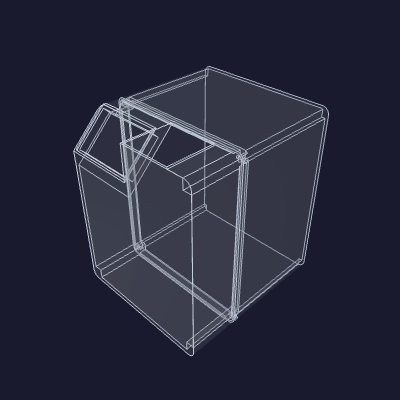
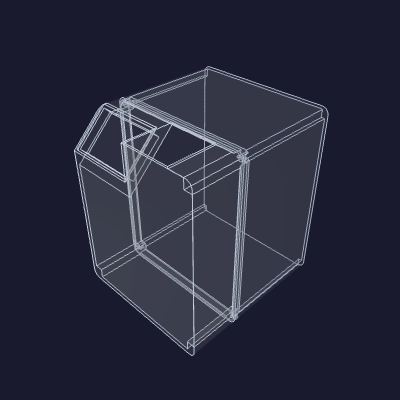
lite: tuck pump stack within the reservoir depth — box 246x270x305
Nudge source-select 3 mm forward so the pump stack behind it ends at the
reservoir back face, removing the small Y regression. Net vs the pre-densify
277x270x305: 31 mm narrower in X, no change in Y or Z. All real-solid checks
clean.

diff --git a/pie-in-the-sky/lite/enclosure-assembly/_contents.py b/pie-in-the-sky/lite/enclosure-assembly/_contents.py
@@ -144,8 +144,10 @@ def build():
     # long axis runs up Z; footprint 63 x 93), butted to the reservoir's +X wall,
     # at the front of the column so its V-B port sits under the hopper toward the
     # front (the funnel necks above the front trays, not onto V-B — Kitchen idiom).
+    # A hair forward of the reservoir front so the pump stack behind it tucks
+    # within the reservoir's back face (keeps the box from growing in Y).
     src = _place(_rot(_load(TRAY_STEPS["source-select"]), (0, 1, 0), 90.0),
-                 xmin=col_x, ymin=RES_FRONT_Y, zmin=0.0)
+                 xmin=col_x, ymin=RES_FRONT_Y - 3.0, zmin=0.0)
     placed["source-select"] = (src, COLORS["source-select"])
     sb = src.BoundingBox()
 

diff --git a/pie-in-the-sky/lite/enclosure/README.md b/pie-in-the-sky/lite/enclosure/README.md
@@ -91,7 +91,7 @@ the two always match.
 
 ## Dimensions
 
-Outer envelope [246 mm](LITE_OUTER_X) × [272.5 mm](LITE_OUTER_Y) × [305 mm](LITE_OUTER_Z)
+Outer envelope [246 mm](LITE_OUTER_X) × [270 mm](LITE_OUTER_Y) × [305 mm](LITE_OUTER_Z)
 (X × Y × Z) — smaller than the Kitchen edition (289 × 342 × 310) on every axis,
 because the Lite carries no cold core or refrigeration depth. Read live from the
 contents placed by `../enclosure-assembly/_contents.py`, so any move in the
